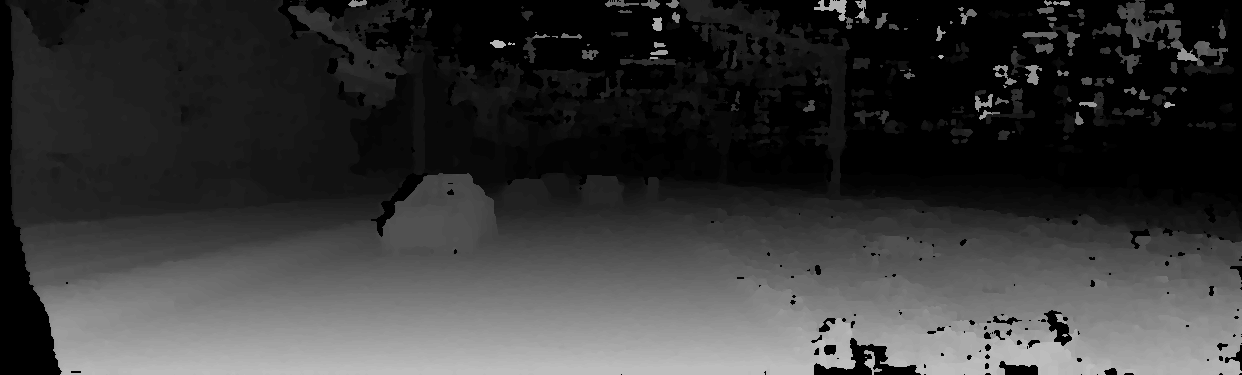
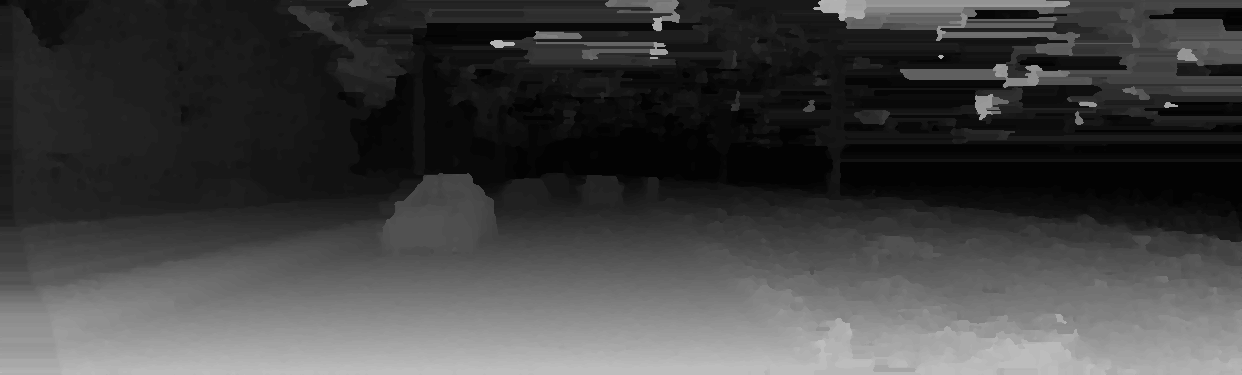
add occlusion filling

diff --git a/TemporalCorrelationMatching/src/TCM_main.cpp b/TemporalCorrelationMatching/src/TCM_main.cpp
@@ -7,9 +7,9 @@ using namespace std;
 int main() {
 
 	//load image
-	Mat lImg = imread("image/left_img/000040_10.png", 1);
-	Mat rImg = imread("image/right_img/000040_10.png", 1);
-	Mat GroundTruth = imread("image/disp_noc_0/000040_10.png", 0);  //_10
+	Mat lImg = imread("image/left_img/000048_10.png", 1);
+	Mat rImg = imread("image/right_img/000048_10.png", 1);
+	Mat GroundTruth = imread("image/disp_noc_0/000048_10.png", 0);  //_10
 
 	if (lImg.empty() || rImg.empty() || GroundTruth.empty()) {
 		printf("Error: can not open image\n");
@@ -37,23 +37,24 @@ int main() {
 	std::cout << "Image Matching Done!\n" << std::endl;
 
 	//post processing
+	OcclusionFilling(lDis);
 	MedianFlitering(lDis, postlDis);
 	std::cout << "Image Postprocessing Done!\n" << std::endl;
 
 	//export result
-	imwrite("image/disp_img/000040_10_res_64d.png", postlDis); 
-	imwrite("image/disp_img/000040_10_leftrow_64d.png", left_row_disp);
-	imwrite("image/disp_img/000040_10_rightrow_64d.png", right_row_disp);
+	imwrite("image/disp_img/000048_10_res_64d.png", postlDis); 
+	imwrite("image/disp_img/000048_10_leftrow_64d.png", left_row_disp);
+	imwrite("image/disp_img/000048_10_rightrow_64d.png", right_row_disp);
 	std::cout << "Image Write Done!\n" << std::endl;
 
 	//evaluate
-	Mat MyDisp = imread("image/disp_img/000040_10_res_64d.png", 0);
+	Mat MyDisp = imread("image/disp_img/000048_10_res_64d.png", 0);
 	KITTIEvaluate(GroundTruth, MyDisp, ErrorMap);
-	imwrite("image/disp_img/000040_10_res_64d_err.png", ErrorMap);
+	imwrite("image/disp_img/000048_10_res_64d_err.png", ErrorMap);
 	std::cout << "Image Evaluation Done!\n" << std::endl;
 
-	Mat lRow = imread("image/disp_img/000040_10_leftrow_64d.png", 1);
-	Mat RRow = imread("image/disp_img/000040_10_rightrow_64d.png", 1);
+	Mat lRow = imread("image/disp_img/000048_10_leftrow_64d.png", 1);
+	Mat RRow = imread("image/disp_img/000048_10_rightrow_64d.png", 1);
 
 	return 0;
 

diff --git a/TemporalCorrelationMatching/src/Occlusion_filling.cpp b/TemporalCorrelationMatching/src/Occlusion_filling.cpp
@@ -1,0 +1,39 @@
+#include "Occlusion_filling.h"
+
+
+void OcclusionFilling(Mat Unfill) {
+
+	for (int i = 0; i < Unfill.rows; i++) {
+		for (int j = 0; j < Unfill.cols; j++) {
+			if (Unfill.ptr<uint>(i)[j] == 0) {
+				uint grayvalue1;
+				uint grayvalue2;
+				if (j == 0) {
+					for (int n = j+1; n <= Unfill.cols; n++) {
+						if (Unfill.ptr<uint>(i)[n] != 0) {
+							grayvalue1 = Unfill.ptr<uint>(i)[n];
+							break;
+						}
+					}
+					Unfill.ptr<uint>(i)[j] = grayvalue1;
+				}
+				else {
+					for (int n = j+1; n <= Unfill.cols; n++) {
+						if (Unfill.ptr<uint>(i)[n] != 0) {
+							grayvalue1 = Unfill.ptr<uint>(i)[n];
+							break;
+						}
+					}
+					for (int m = j - 1; m >= 0; m--) {
+						if (Unfill.ptr<uint>(i)[m] != 0) {
+							grayvalue2 = Unfill.ptr<uint>(i)[m];
+							break;
+						}
+					}
+					Unfill.ptr<uint>(i)[j] = min(grayvalue1, grayvalue2);
+				}
+			}
+		}
+	}
+
+}

diff --git a/TemporalCorrelationMatching/src/Occlusion_filling.h b/TemporalCorrelationMatching/src/Occlusion_filling.h
@@ -1,0 +1,9 @@
+#pragma once
+
+#include <opencv2/imgproc/imgproc.hpp>
+#include <opencv2/core/core.hpp>
+#include <opencv2/highgui/highgui.hpp>
+
+using namespace cv;
+
+void OcclusionFilling(Mat Unfill);

diff --git a/TemporalCorrelationMatching/src/TCM_main.h b/TemporalCorrelationMatching/src/TCM_main.h
@@ -7,4 +7,5 @@
 #include "SGM_function.h"
 #include "MedianFilter.h"
 #include "KITTI_evaluate.h"
+#include "Occlusion_filling.h"
 
